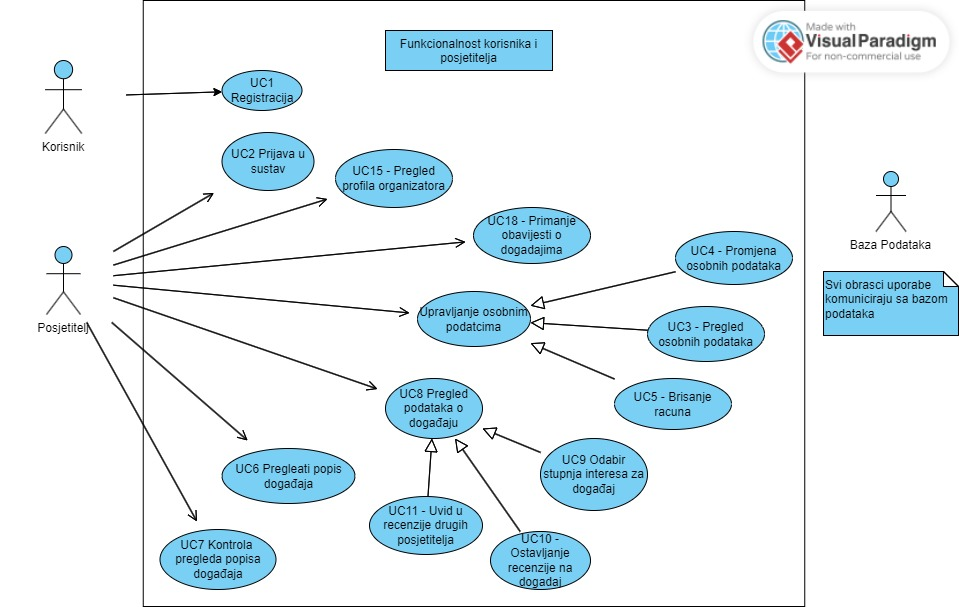
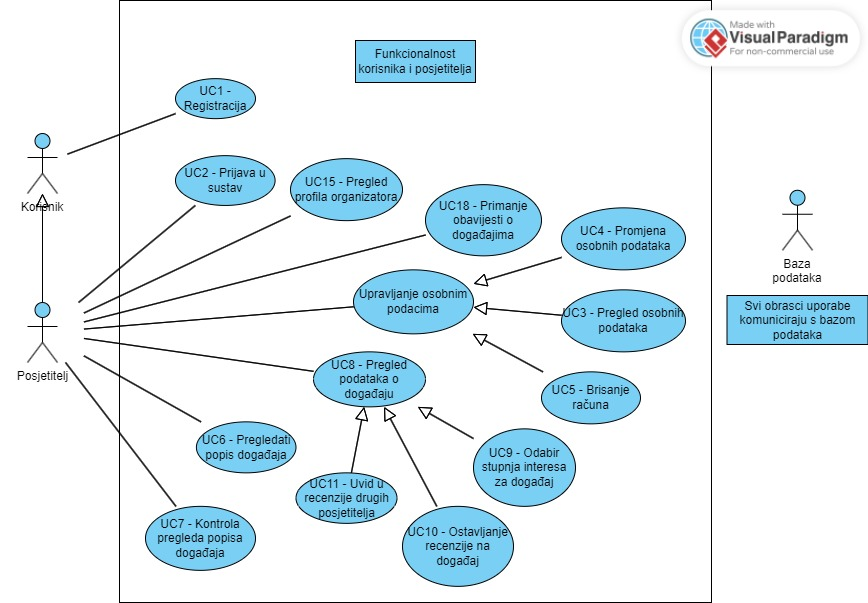
unify style of use case diagrams

diff --git a/dokumentacija/Specifikacija_programske_potpore.tex b/dokumentacija/Specifikacija_programske_potpore.tex
@@ -906,12 +906,12 @@
 
 					\begin{figure}[htbp]
 						\centering
-						\includegraphics[width=1\textwidth]{dijagrami/obrazac_funkcionalnost_administratora.png}
+						\includegraphics[width=1\textwidth]{dijagrami/obrazac_funkcionalnost_administratora.jpg}
 						\caption{Dijagram obrasca uporabe, funkcionalnost administratora}
 					\label{fig:my_image}
 					\end{figure}
 
-				\eject		
+				\eject	
 				
 			\subsection{Sekvencijski dijagrami}
 				
